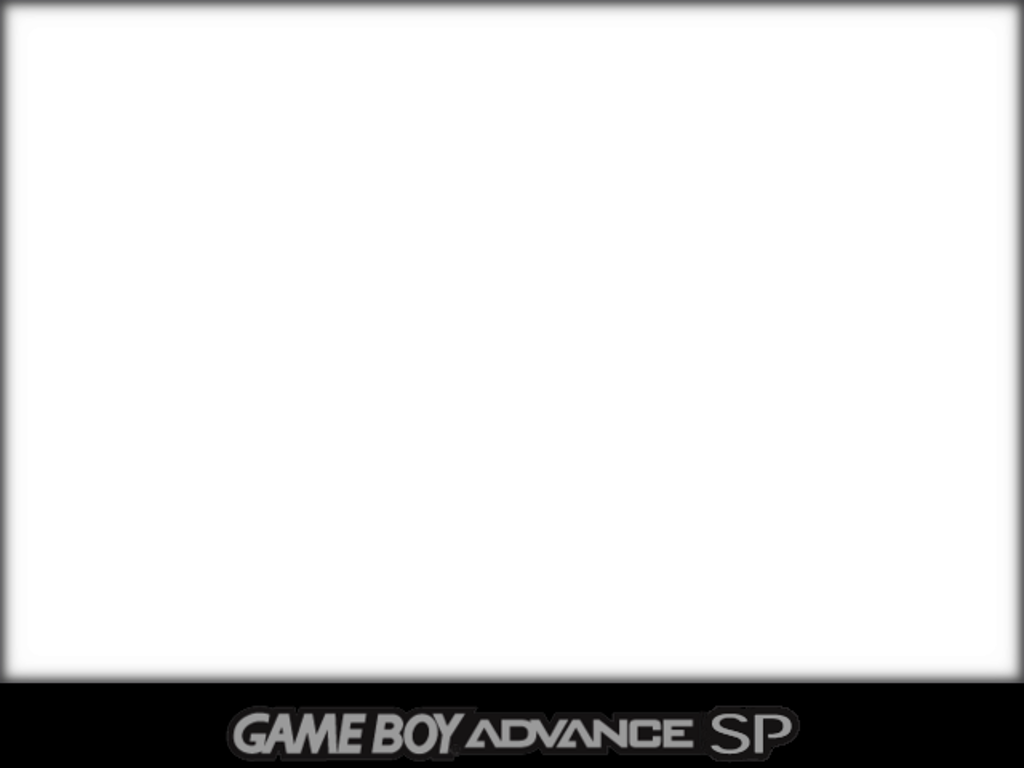
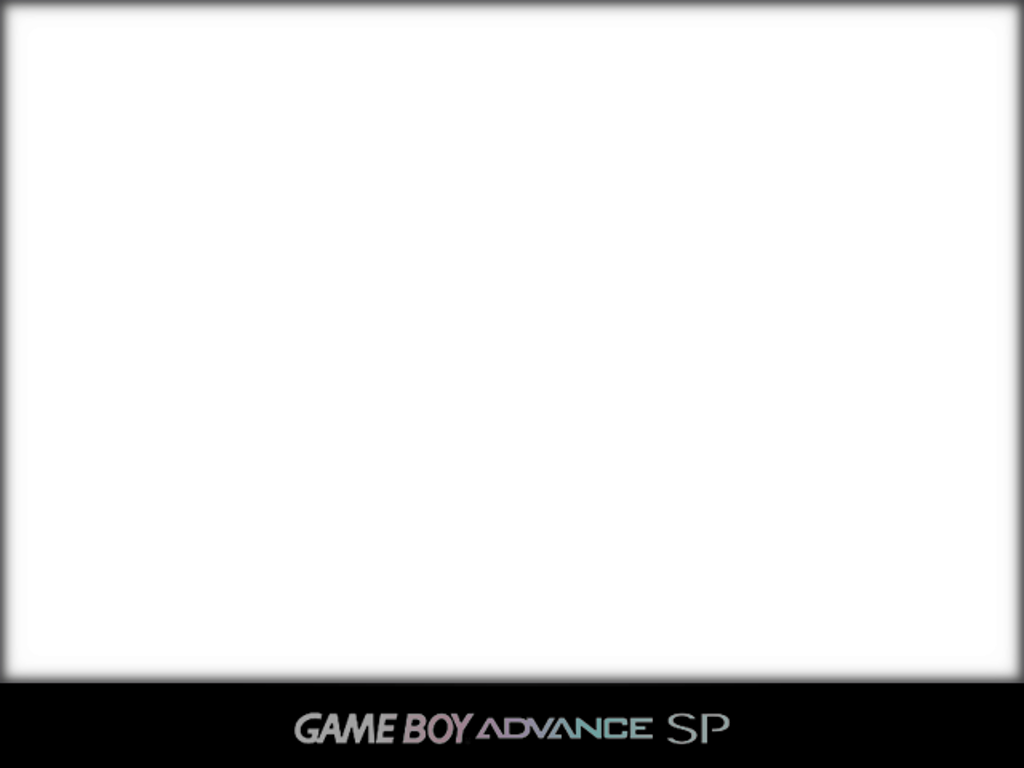
Also added 1024x768 version for SP

Changed region(s): [[0.2188, 0.9062, 0.7812, 1.0]]

diff --git a/README.md b/README.md
@@ -66,17 +66,21 @@ If you like the pre-installed version of  `default-knulli` on your KNULLI device
 
 ### Example: Replacing the GBA bezel decoration with a GBA SP variant
 
-While the default GBA bezel works fine for most devices, users of clamshell devices, e.g., the Anbernic RG35XX SP, obviously prefer a GBA SP variant for their handhelds. Consequently, `default-knulli` comes with an SP variant for 640x480 displays.
+While the default GBA bezel works fine for most devices, users of clamshell devices, e.g., the Anbernic RG35XX SP, obviously prefer a GBA SP variant for their handhelds. Consequently, `default-knulli` comes with an SP variant for 640x480/1024x768 displays.
 
 You can use the customization options as explained above to **override** the default GBA bezel with a GBA SP bezel:
 
 * On your KNULLI device, select *DEFAULT-KNULLI* in the *Decorations* subsection of the *Game Settings*
 * Create a new folder `default-knulli` inside your `decorations` folder
 * Create a new folder `systems` inside the `default-knulli` folder
-* Download the [gba-alt-640x480.png](https://github.com/chrizzo-hb/knulli-bezels/blob/main/default-knulli/systems/gba-alt-640x480.png) bezel image from this repository
-* Download the [gba-640x480.info](https://github.com/chrizzo-hb/knulli-bezels/blob/main/default-knulli/systems/gba-640x480.info) bezel info file from this repository
+* For a 640x480 display
+    * download the [gba-alt-640x480.png](https://github.com/chrizzo-hb/knulli-bezels/blob/main/default-knulli/systems/gba-alt-640x480.png) bezel image from this repository
+    * download the [gba-640x480.info](https://github.com/chrizzo-hb/knulli-bezels/blob/main/default-knulli/systems/gba-640x480.info) bezel info file from this repository
+* For a 1024x768 display
+    * download the [gba-alt-1024x768.png](https://github.com/chrizzo-hb/knulli-bezels/blob/main/default-knulli/systems/gba-alt-1024x768.png) bezel image from this repository
+    * download the [gba-1024x768.info](https://github.com/chrizzo-hb/knulli-bezels/blob/main/default-knulli/systems/gba-1024x768.info) bezel info file from this repository
 * Copy both files to your new `decorations/default-knulli/systems` folder
-* Make sure to **rename** `gba-alt-640x480.png` to `gba-640x480.png`!
+* Make sure to **rename** `gba-alt-640x480.png` to `gba-640x480.png` (or `gba-alt-1024x768.png` to `gba-1024x768.png`)!
 
 Now launch a GBA game and be amazed that your original GBA bezel has been replaced by the SP variant!
 
